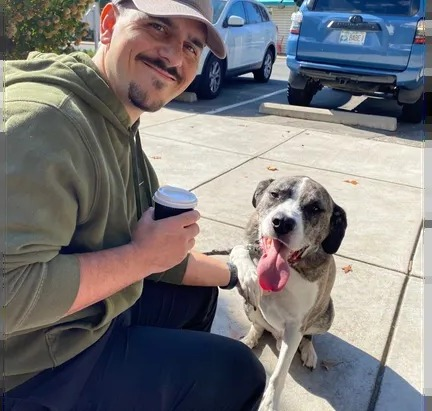
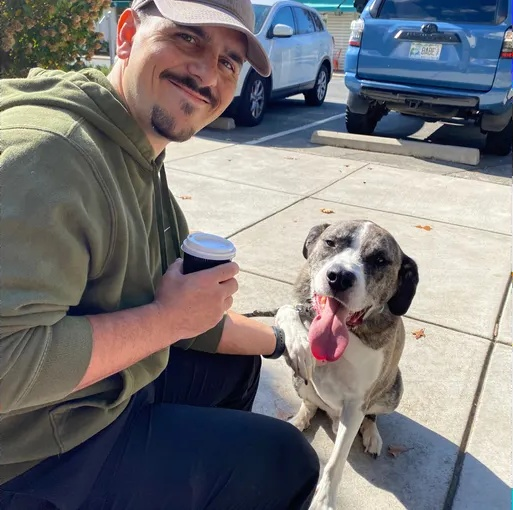
Export from Grok

diff --git a/src/components/site-header.tsx b/src/components/site-header.tsx
@@ -32,7 +32,7 @@ export function SiteHeader() {
     >
       <div className="mx-auto flex h-16 max-w-6xl items-center justify-between gap-4 px-5">
         <Link to="/" className="flex min-w-0 items-center gap-2.5" onClick={() => setOpen(false)}>
-          <img src="/images/mark.png?v=3" alt="" className="h-12 w-auto shrink-0" width={446} height={360} />
+          <img src="/images/banner-logo.png?v=4" alt="" className="h-14 w-auto shrink-0" width={516} height={314} />
           <span className="truncate whitespace-nowrap font-display text-xl tracking-tight sm:text-2xl">
             Travel Fitness LLC
           </span>

diff --git a/src/routes/about.tsx b/src/routes/about.tsx
@@ -10,11 +10,11 @@ function About() {
       <article className="mx-auto grid max-w-6xl gap-10 px-5 py-12 md:grid-cols-12 md:py-16">
         <div className="order-2 md:order-1 md:col-span-5">
           <img
-            src="/images/grayson.jpg?v=4"
+            src="/images/grayson.jpg?v=7"
             alt="Grayson Brown with his dog"
             className="w-full rounded-card"
-            width={432}
-            height={411}
+            width={513}
+            height={510}
           />
         </div>
         <div className="order-1 md:order-2 md:col-span-7">

diff --git a/src/routes/index.tsx b/src/routes/index.tsx
@@ -65,11 +65,11 @@ function Home() {
 
       <section className="mx-auto grid max-w-6xl items-center gap-8 px-5 py-14 md:grid-cols-2 md:py-20">
         <img
-          src="/images/grayson.jpg?v=4"
+          src="/images/grayson.jpg?v=7"
           alt="Grayson Brown with his dog"
           className="w-full rounded-card"
-          width={432}
-          height={411}
+          width={513}
+          height={510}
         />
         <div>
           <p className="text-sm font-semibold uppercase tracking-widest text-pine">Coach</p>
